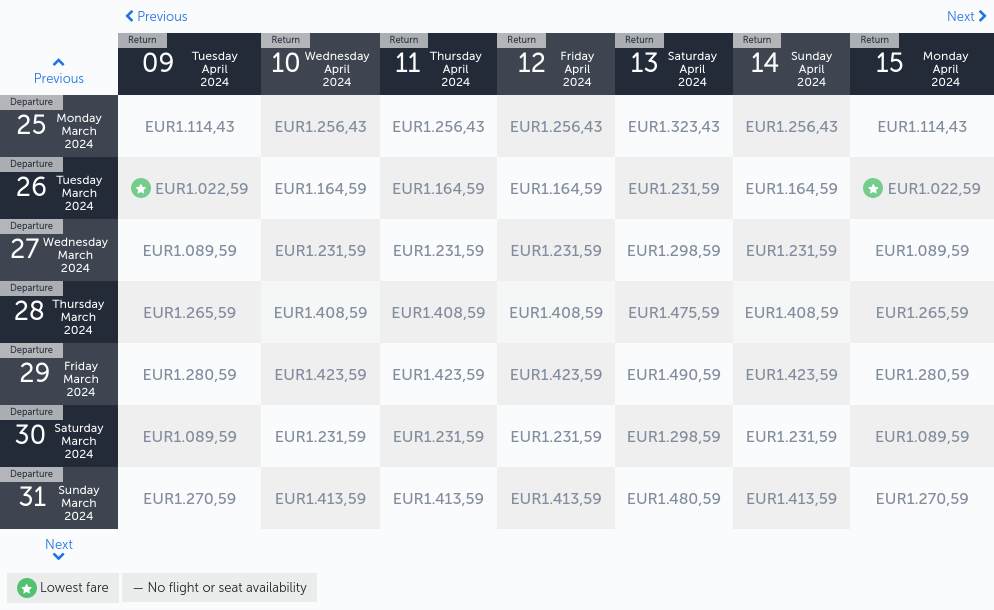
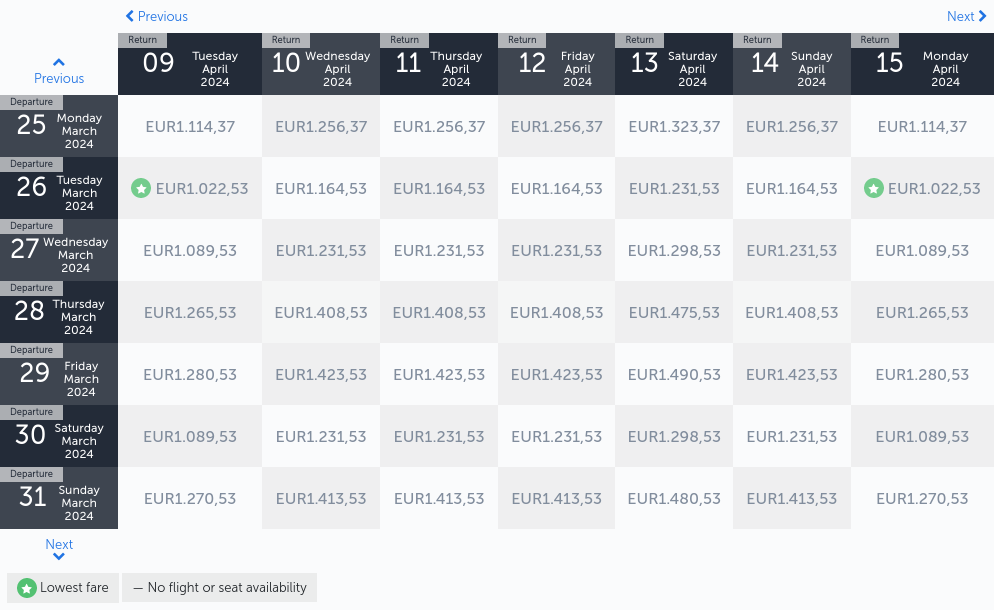
Latest scraping taiwan: Tue Jun 13 22:38:58 UTC 2023

diff --git a/scrapes/taiwan/turkish-airlines.md b/scrapes/taiwan/turkish-airlines.md
@@ -2,13 +2,13 @@
 | --- | --- | --- | --- | --- | --- | --- | --- |
 | Previous | Return<br><br>09 Tuesday April 2024 | Return<br><br>10 Wednesday April 2024 | Return<br><br>11 Thursday April 2024 | Return<br><br>12 Friday April 2024 | Return<br><br>13 Saturday April 2024 | Return<br><br>14 Sunday April 2024 | Return<br><br>15 Monday April 2024 |
 | --- | --- | --- | --- | --- | --- | --- | --- |
-| Departure<br><br>25 Monday March 2024 | 1.114,43 | 1.256,43 | 1.256,43 | 1.256,43 | 1.323,43 | 1.256,43 | 1.114,43 |
-| Departure<br><br>26 Tuesday March 2024 | 1.022,59 | 1.164,59 | 1.164,59 | 1.164,59 | 1.231,59 | 1.164,59 | 1.022,59 |
-| Departure<br><br>27 Wednesday March 2024 | 1.089,59 | 1.231,59 | 1.231,59 | 1.231,59 | 1.298,59 | 1.231,59 | 1.089,59 |
-| Departure<br><br>28 Thursday March 2024 | 1.265,59 | 1.408,59 | 1.408,59 | 1.408,59 | 1.475,59 | 1.408,59 | 1.265,59 |
-| Departure<br><br>29 Friday March 2024 | 1.280,59 | 1.423,59 | 1.423,59 | 1.423,59 | 1.490,59 | 1.423,59 | 1.280,59 |
-| Departure<br><br>30 Saturday March 2024 | 1.089,59 | 1.231,59 | 1.231,59 | 1.231,59 | 1.298,59 | 1.231,59 | 1.089,59 |
-| Departure<br><br>31 Sunday March 2024 | 1.270,59 | 1.413,59 | 1.413,59 | 1.413,59 | 1.480,59 | 1.413,59 | 1.270,59 |
+| Departure<br><br>25 Monday March 2024 | 1.114,37 | 1.256,37 | 1.256,37 | 1.256,37 | 1.323,37 | 1.256,37 | 1.114,37 |
+| Departure<br><br>26 Tuesday March 2024 | 1.022,53 | 1.164,53 | 1.164,53 | 1.164,53 | 1.231,53 | 1.164,53 | 1.022,53 |
+| Departure<br><br>27 Wednesday March 2024 | 1.089,53 | 1.231,53 | 1.231,53 | 1.231,53 | 1.298,53 | 1.231,53 | 1.089,53 |
+| Departure<br><br>28 Thursday March 2024 | 1.265,53 | 1.408,53 | 1.408,53 | 1.408,53 | 1.475,53 | 1.408,53 | 1.265,53 |
+| Departure<br><br>29 Friday March 2024 | 1.280,53 | 1.423,53 | 1.423,53 | 1.423,53 | 1.490,53 | 1.423,53 | 1.280,53 |
+| Departure<br><br>30 Saturday March 2024 | 1.089,53 | 1.231,53 | 1.231,53 | 1.231,53 | 1.298,53 | 1.231,53 | 1.089,53 |
+| Departure<br><br>31 Sunday March 2024 | 1.270,53 | 1.413,53 | 1.413,53 | 1.413,53 | 1.480,53 | 1.413,53 | 1.270,53 |
 | Next |
 | Lowest fare — No flight or seat availability |     |     |     |     |     |     |     |
 
